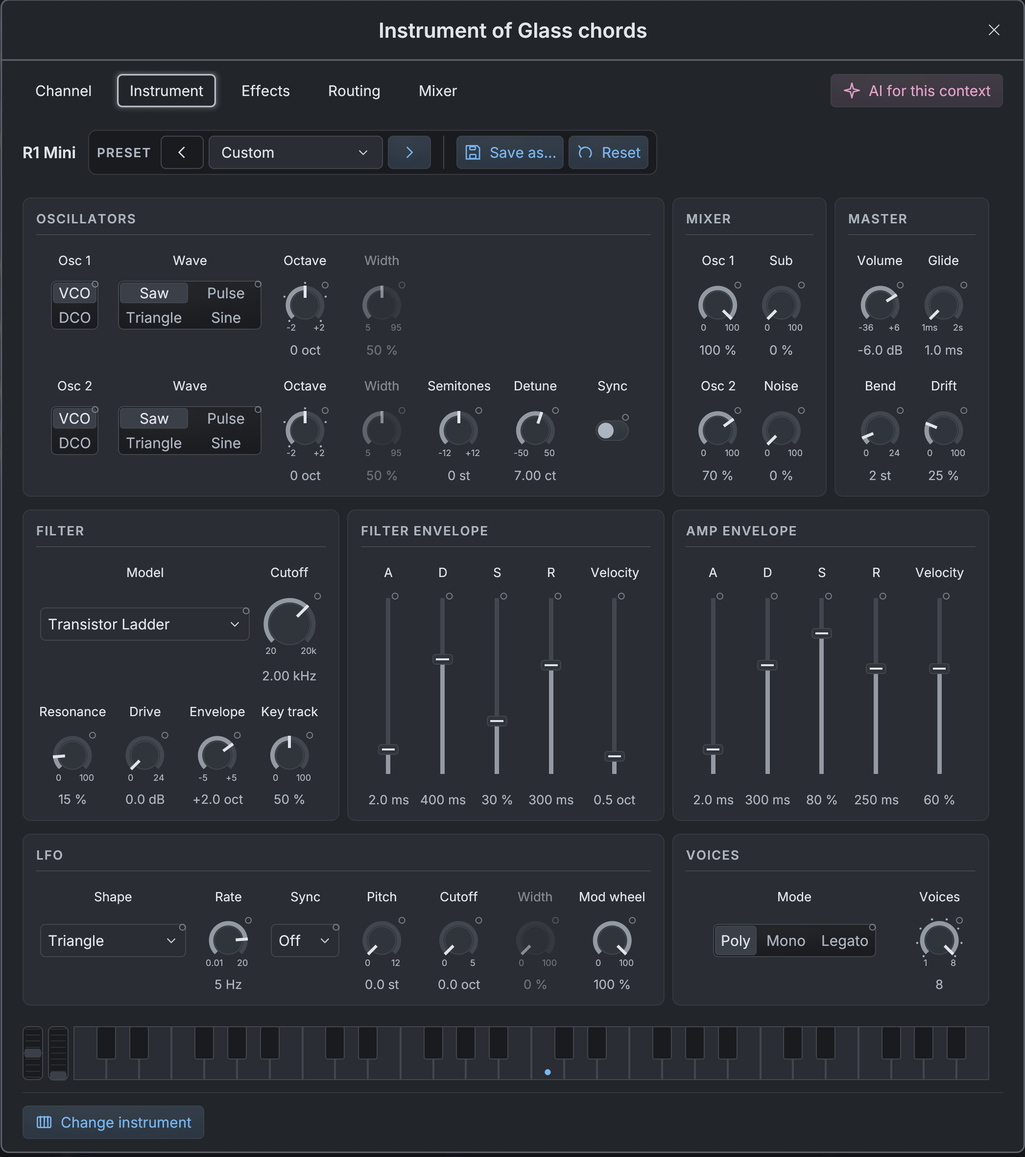
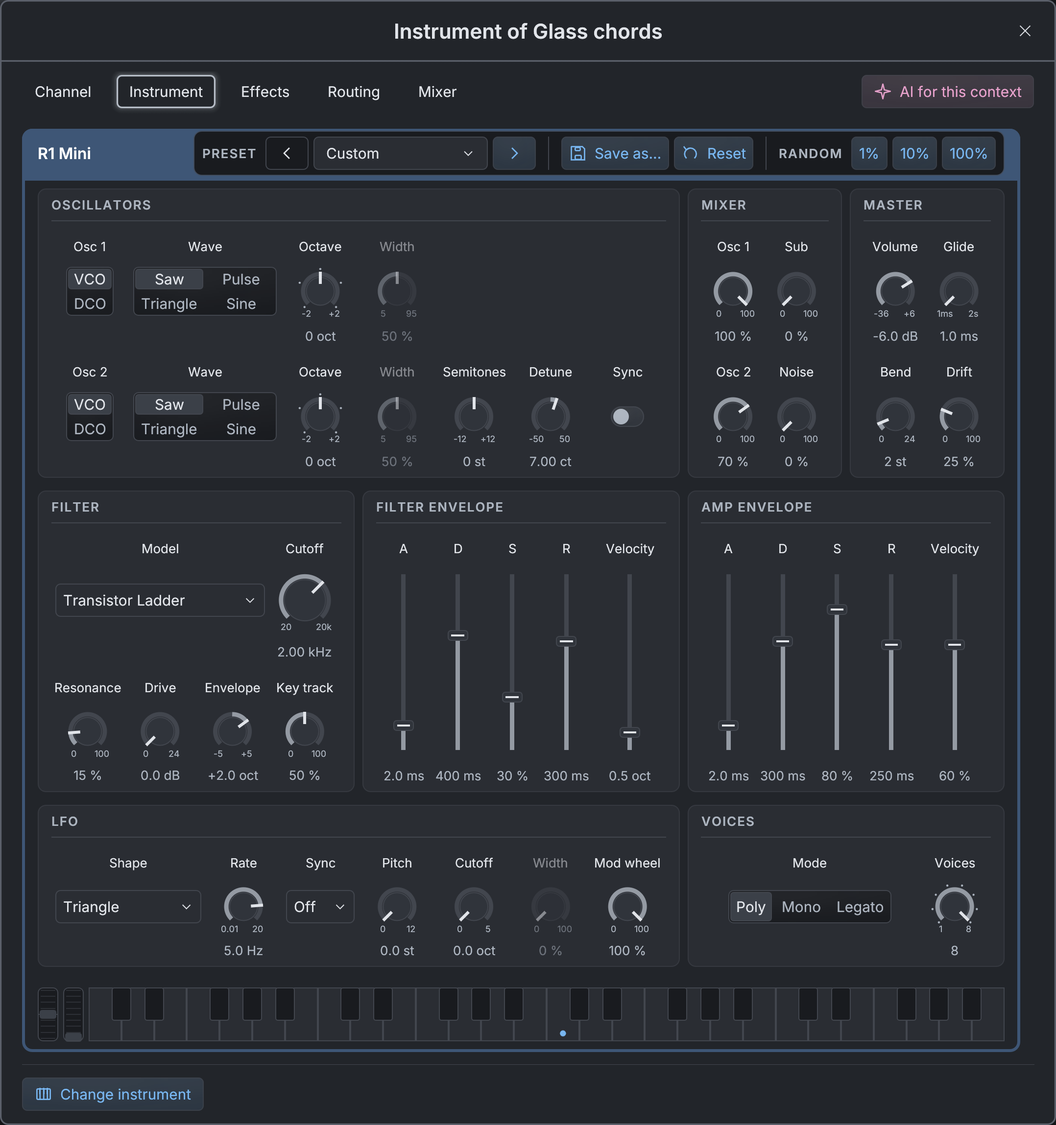
RILL: show all nine built-in R1 devices (#122)
Three instruments (Mini, Sampler, Drums) and six effects (Filter,
Equalizer, Saturator, Compressor, Modulator, Spacer) in the devices
grid, re-captured in the current look, and named in the page copy,
metadata, homepage card and llms.txt.

Claude-Session: https://claude.ai/code/session_01NMJbGrPFJ3cst7Hb3RSgxG

diff --git a/product/rill/index.html b/product/rill/index.html
@@ -5,10 +5,10 @@
   <meta charset="UTF-8">
   <meta name="viewport" content="width=device-width, initial-scale=1.0">
   <title>RILL — Free, Open-Source Music Workstation | Protocodus</title>
-  <meta name="description" content="Record audio and MIDI, play the built-in R1 synth and filter, add VST3, CLAP, LV2 or AU plug-ins and work with an optional AI assistant. A free, open-source DAW for macOS, Windows and Linux.">
+  <meta name="description" content="Record audio and MIDI, play the built-in R1 synth, sampler and drums, mix with six R1 effects, add VST3, CLAP, LV2 or AU plug-ins and work with an optional AI assistant. A free, open-source DAW for macOS, Windows and Linux.">
   <meta name="theme-color" content="#101615">
   <meta property="og:title" content="RILL — Free, Open-Source Music Workstation | Protocodus">
-  <meta property="og:description" content="Record audio and MIDI, play the built-in R1 synth and filter, add VST3, CLAP, LV2 or AU plug-ins and work with an optional AI assistant. A free, open-source DAW for macOS, Windows and Linux.">
+  <meta property="og:description" content="Record audio and MIDI, play the built-in R1 synth, sampler and drums, mix with six R1 effects, add VST3, CLAP, LV2 or AU plug-ins and work with an optional AI assistant. A free, open-source DAW for macOS, Windows and Linux.">
   <meta property="og:type" content="website">
   <meta property="og:site_name" content="Protocodus">
   <meta property="og:locale" content="en_US">
@@ -21,7 +21,7 @@
   <link rel="icon" type="image/svg+xml" href="/assets/images/favicon.svg?v=20260911">
   <link rel="preload" href="/assets/fonts/space-grotesk-latin.woff2" as="font" type="font/woff2" crossorigin>
   <link rel="stylesheet" href="/assets/css/style.css?v=20261105">
-  <link rel="stylesheet" href="/assets/css/rill.css?v=20261111">
+  <link rel="stylesheet" href="/assets/css/rill.css?v=20261112">
   <script type="application/ld+json">
   {
   "@context": "https://schema.org",
@@ -29,7 +29,7 @@
   "name": "RILL",
   "url": "https://protocodus.cz/product/rill/",
   "image": "https://protocodus.cz/product/rill/rill-arrangement.jpg?v=89caee95d86e",
-  "description": "Free, open-source desktop DAW for macOS, Linux and Windows with audio and MIDI recording, a built-in R1 synth and filter, isolated VST3, CLAP, LV2 and AU plug-ins, automation, reversible Freeze and an optional scoped AI assistant.",
+  "description": "Free, open-source desktop DAW for macOS, Linux and Windows with audio and MIDI recording, three built-in R1 instruments and six R1 effects, isolated VST3, CLAP, LV2 and AU plug-ins, automation, reversible Freeze and an optional scoped AI assistant.",
   "applicationCategory": "MultimediaApplication",
   "operatingSystem": "macOS, Linux, Windows",
   "author": {
@@ -52,8 +52,15 @@
     "https://protocodus.cz/product/rill/rill-mixer.webp?v=a8fd0d057807",
     "https://protocodus.cz/product/rill/rill-ai-assistant.webp?v=5394f066e631",
     "https://protocodus.cz/product/rill/rill-automation.webp?v=a4fff37486f8",
-    "https://protocodus.cz/product/rill/rill-r1-mini.webp?v=7cbebe30cc01",
-    "https://protocodus.cz/product/rill/rill-r1-filter.webp?v=ec9fc115a5a0"
+    "https://protocodus.cz/product/rill/rill-r1-mini.webp?v=c79d6d9c9d5e",
+    "https://protocodus.cz/product/rill/rill-r1-sampler.webp?v=4538934f39ea",
+    "https://protocodus.cz/product/rill/rill-r1-drums.webp?v=c1a051936e45",
+    "https://protocodus.cz/product/rill/rill-r1-filter.webp?v=89f049261842",
+    "https://protocodus.cz/product/rill/rill-r1-equalizer.webp?v=c6f311e4b855",
+    "https://protocodus.cz/product/rill/rill-r1-saturator.webp?v=6144440f5849",
+    "https://protocodus.cz/product/rill/rill-r1-compressor.webp?v=80c7955410eb",
+    "https://protocodus.cz/product/rill/rill-r1-modulator.webp?v=5425f60f7769",
+    "https://protocodus.cz/product/rill/rill-r1-spacer.webp?v=cd349b391888"
   ]
 }
   </script>
@@ -62,7 +69,7 @@
 
   <meta name="twitter:card" content="summary_large_image">
   <meta name="twitter:title" content="RILL — Free, Open-Source Music Workstation | Protocodus">
-  <meta name="twitter:description" content="Record audio and MIDI, play the built-in R1 synth and filter, add VST3, CLAP, LV2 or AU plug-ins and work with an optional AI assistant. A free, open-source DAW for macOS, Windows and Linux.">
+  <meta name="twitter:description" content="Record audio and MIDI, play the built-in R1 synth, sampler and drums, mix with six R1 effects, add VST3, CLAP, LV2 or AU plug-ins and work with an optional AI assistant. A free, open-source DAW for macOS, Windows and Linux.">
   <meta name="twitter:image" content="https://protocodus.cz/product/rill/rill-arrangement.jpg?v=89caee95d86e">
   <meta name="twitter:image:alt" content="Rill's arrangement view with a 32-bar song across colour-coded audio and MIDI tracks.">
   <script type="application/ld+json">
@@ -142,14 +149,14 @@
           <div class="rill-identity"><img src="rill-logo.svg" width="670" height="208" alt="RILL"><span class="rill-alpha">ALPHA</span></div>
           <p class="rill-eyebrow">A free, open-source music workstation</p>
           <h1>Record. Arrange. <em>Mix.</em></h1>
-          <p class="rill-intro">Capture a performance, develop the arrangement and shape the mix with the built-in R1 synth and filter or your own VST3, CLAP, LV2 and AU plug-ins. Focused workspaces keep your music in view, with an optional AI assistant when you want one.</p>
+          <p class="rill-intro">Capture a performance, develop the arrangement and shape the mix with the built-in R1 instruments and effects or your own VST3, CLAP, LV2 and AU plug-ins. Focused workspaces keep your music in view, with an optional AI assistant when you want one.</p>
           <div class="hero-actions"><a href="#download" class="btn btn-primary" data-analytics-cta="hero_download" data-analytics-action="view_details">Download RILL <span aria-hidden="true">↓</span></a><a href="#workflow" class="rill-tour-link" data-analytics-cta="hero_tour" data-analytics-action="navigate_section">Explore the workflow <span aria-hidden="true">↗</span></a></div>
           <p class="rill-platform-line">macOS · Windows · Linux <span>MIT licensed</span></p>
         </div>
         <figure class="shot rill-hero-shot"><a class="screenshot-link" href="rill-arrangement.webp?v=7fc9768120b1" data-analytics-cta="arrangement_view" data-analytics-action="view_screenshot" aria-label="View the RILL arrangement at full size"><img src="rill-arrangement.webp?v=7fc9768120b1" width="2000" height="1250" fetchpriority="high" decoding="async" alt="RILL running an original 32-bar project with colour-coded audio and MIDI tracks and two buses"><span class="shot-caption">Arrangement · Audio and MIDI<span>Actual RILL interface · View full size ↗</span></span></a></figure>
       </div>
     </section>
-    <div class="rill-spec-strip"><div class="wrap"><span>Audio + MIDI recording</span><span>Built-in R1 synth + filter</span><span>VST3 · CLAP · LV2 · AU</span><span>Optional scoped AI</span></div></div>
+    <div class="rill-spec-strip"><div class="wrap"><span>Audio + MIDI recording</span><span>3 R1 instruments + 6 effects</span><span>VST3 · CLAP · LV2 · AU</span><span>Optional scoped AI</span></div></div>
     <section class="band rill-workflow" id="workflow">
       <div class="wrap">
         <div class="rill-section-head"><span class="tag">01 / Arrangement</span><h2 class="title">One timeline for<br>audio and MIDI.</h2><p class="lede">Record a performance, import WAV, MP3, FLAC, OGG or MIDI files, or start with the included drum loop. Build your song from audio and MIDI clips on one timeline.</p></div>
@@ -166,14 +173,14 @@
       <div class="wrap rill-editorial"><div class="rill-editorial-copy"><span class="tag">04 / Optional AI assistant</span><h2 class="title">Write and edit<br>with an assistant.</h2><p class="lede">Ask for a new MIDI part, a phrase variation or a mix adjustment. Work across the song, or open AI for a particular clip, channel, instrument or effect. Its edits stay within that context and use the same Undo history as your own.</p><blockquote>“Make these chords more expressive: keep the D-minor harmony, vary the velocities gently, and add a short passing note before each chord change.”</blockquote><p class="rill-ai-note">Unsent example request. Connect your provider to use it; results depend on the model.</p><details class="rill-disclosure"><summary>How the AI connection works</summary><p>Choose OpenAI or Anthropic and connect your own API key. Requests go to your chosen provider; their usage charges may apply. The assistant is optional. External AI clients can connect to the live song through MCP. New MIDI tracks play the built-in R1 Mini synth, or any instrument plug-in you choose.</p><a class="text-link" href="https://github.com/protocodus/rill-daw/blob/main/docs/AI_TOOLS.md" data-analytics-cta="ai_tools" data-analytics-action="view_details">Assistant and MCP setup ↗</a></details></div><figure class="shot"><a class="screenshot-link" href="rill-ai-assistant.webp?v=5394f066e631" data-analytics-cta="ai_assistant" data-analytics-action="view_screenshot" aria-label="View RILL’s AI assistant at full size"><img src="rill-ai-assistant.webp?v=5394f066e631" width="2000" height="1250" loading="lazy" decoding="async" alt="RILL’s contextual assistant with an unsent request to vary the selected D-minor chords"><span class="shot-caption">AI for this clip<span>Draft request, before sending ↗</span></span></a></figure></div>
     </section>
     <section class="band" id="mix"><div class="wrap"><div class="rill-section-head"><span class="tag">05 / Mixer</span><h2 class="title">Route it.<br>Mix it.</h2><p class="lede">Mix through buses and sends, connect auxiliary or sidechain inputs, and bring out separate instrument outputs. Right-click any control and choose Automate, or touch a plug-in parameter in its own editor to create its lane. Each track’s effects open in one click from the arranger. Inspect spectrum, loudness and stereo balance as you work.</p></div><figure class="shot rill-mixer-shot"><a class="screenshot-link" href="rill-mixer.webp?v=a8fd0d057807" data-analytics-cta="mixer" data-analytics-action="view_screenshot" aria-label="View RILL’s mixer at full size"><img src="rill-mixer.webp?v=a8fd0d057807" width="2400" height="1250" loading="lazy" decoding="async" alt="RILL mixer with eight audio and MIDI channels, two buses, a master channel and visible signal routing"><span class="shot-caption">Mixer · Instruments, effects and routing<span>View full size ↗</span></span></a></figure><details class="rill-disclosure"><summary>See the automation editor</summary><p>Shape changes over time with editable points and curves. This volume lane follows the Atmosphere track through the full arrangement.</p><figure class="shot"><a class="screenshot-link" href="rill-automation.webp?v=a4fff37486f8" data-analytics-cta="automation_editor" data-analytics-action="view_screenshot" aria-label="View RILL’s automation editor at full size"><img src="rill-automation.webp?v=a4fff37486f8" width="2000" height="1250" loading="lazy" decoding="async" alt="RILL automation editor showing the Atmosphere volume curve across a 32-bar song"><span class="shot-caption">Automation · Atmosphere volume<span>View full size ↗</span></span></a></figure></details><div class="rill-principles"><article><span>Freeze</span><h3>Print it. Come back later.</h3><p>Freeze clips or tracks into new audio, including configured instrument outputs. Originals stay retained and muted; Return to originals restores them while keeping the prints.</p></article><article><span>Processing</span><h3>Make room for the mix.</h3><p>Independent instrument and effect chains can use multiple CPU cores. Audio keeps the same sample precision; the benefit depends on your song, plug-ins and hardware.</p></article><article><span>Plug-ins</span><h3>Use your favourite plug-ins.</h3><p>VST3 and CLAP everywhere, LV2 on Linux and Audio Units on macOS run in isolated processes. Bring your own plug-ins, keep their editors and presets, and route them through the same mixer.</p></article></div></div></section>
-    <section class="band band-well" id="devices"><div class="wrap"><div class="rill-section-head"><span class="tag">06 / Built-in devices</span><h2 class="title">Sound before<br>any plug-in.</h2><p class="lede">RILL ships its own R1 instrument and effect, so a new song makes sound straight away. Find them in the Device browser under Built-in (R1). Each has factory presets, automation on every control, and tools the AI assistant can use in plain units.</p></div><div class="rill-device-grid"><figure class="shot"><a class="screenshot-link" href="rill-r1-mini.webp?v=7cbebe30cc01" data-analytics-cta="r1_mini" data-analytics-action="view_screenshot" aria-label="View the R1 Mini panel at full size"><img src="rill-r1-mini.webp?v=7cbebe30cc01" width="2093" height="2362" loading="lazy" decoding="async" alt="R1 Mini synth panel with oscillators, mixer, filter, two envelopes, LFO, voicing and a playable keyboard"><span class="shot-caption">R1 Mini · Instrument<span>View full size ↗</span></span></a><figcaption>A two-oscillator subtractive synth and the default instrument of new MIDI tracks: circuit-modelled VCO and DCO oscillators, sub and noise, five analog filter circuits, two envelopes, an LFO, and poly, mono and legato voicing.</figcaption></figure><figure class="shot"><a class="screenshot-link" href="rill-r1-filter.webp?v=ec9fc115a5a0" data-analytics-cta="r1_filter" data-analytics-action="view_screenshot" aria-label="View the R1 Filter panel at full size"><img src="rill-r1-filter.webp?v=ec9fc115a5a0" width="2093" height="1674" loading="lazy" decoding="async" alt="R1 Filter panel with a response graph, filter model, type, slope, cutoff, LFO, envelope follower and output controls"><span class="shot-caption">R1 Filter · Effect<span>View full size ↗</span></span></a><figcaption>A filter for inserts and sends: the transparent Clean model or one of eight characters, from transistor ladder and Sallen-Key to comb and vowel, moved by its own LFO and envelope follower.</figcaption></figure></div></div></section>
+    <section class="band band-well" id="devices"><div class="wrap"><div class="rill-section-head"><span class="tag">06 / Built-in devices</span><h2 class="title">Sound before<br>any plug-in.</h2><p class="lede">RILL ships three R1 instruments and six R1 effects, so a new song makes sound straight away. Find them in the Device browser under Built-in (R1). Each has factory presets, a Random button that varies every control by 1, 10 or 100 %, automation on every control, and tools the AI assistant can use in plain units.</p></div><div class="rill-device-grid"><figure class="shot"><a class="screenshot-link" href="rill-r1-mini.webp?v=c79d6d9c9d5e" data-analytics-cta="r1_mini" data-analytics-action="view_screenshot" aria-label="View the R1 Mini panel at full size"><img src="rill-r1-mini.webp?v=c79d6d9c9d5e" width="2156" height="2298" loading="lazy" decoding="async" alt="R1 Mini synth panel with oscillators, mixer, filter, two envelopes, LFO, voicing and a playable keyboard"><span class="shot-caption">R1 Mini · Instrument<span>View full size ↗</span></span></a><figcaption>A two-oscillator subtractive synth and the default instrument of new MIDI tracks: circuit-modelled VCO and DCO oscillators, sub and noise, five analog filter circuits, two envelopes, an LFO, and poly, mono and legato voicing.</figcaption></figure><figure class="shot"><a class="screenshot-link" href="rill-r1-sampler.webp?v=4538934f39ea" data-analytics-cta="r1_sampler" data-analytics-action="view_screenshot" aria-label="View the R1 Sampler panel at full size"><img src="rill-r1-sampler.webp?v=4538934f39ea" width="2156" height="2666" loading="lazy" decoding="async" alt="R1 Sampler panel with a piano sample waveform, loop, pitch, filter, two envelopes, LFO and voice controls"><span class="shot-caption">R1 Sampler · Instrument<span>View full size ↗</span></span></a><figcaption>Plays one recording across the keyboard. Drop in a WAV, MP3, FLAC or OGG file or turn an audio clip into an instrument, drag start, end and loop markers on the waveform, and shape it with a filter, two envelopes and an LFO.</figcaption></figure><figure class="shot"><a class="screenshot-link" href="rill-r1-drums.webp?v=c1a051936e45" data-analytics-cta="r1_drums" data-analytics-action="view_screenshot" aria-label="View the R1 Drums panel at full size"><img src="rill-r1-drums.webp?v=c1a051936e45" width="2156" height="1856" loading="lazy" decoding="async" alt="R1 Drums panel with a grid of sixteen pads, the selected kick drum waveform and its playback, pitch, envelope and filter controls"><span class="shot-caption">R1 Drums · Instrument<span>View full size ↗</span></span></a><figcaption>Sixteen pads, one recording each. Every pad has its own start and end, pitch envelope, attack, hold and decay, filter, drive, pan and one of four choke groups, so an open hi-hat is cut by the closed one.</figcaption></figure><figure class="shot"><a class="screenshot-link" href="rill-r1-filter.webp?v=89f049261842" data-analytics-cta="r1_filter" data-analytics-action="view_screenshot" aria-label="View the R1 Filter panel at full size"><img src="rill-r1-filter.webp?v=89f049261842" width="2156" height="1630" loading="lazy" decoding="async" alt="R1 Filter panel with a response graph, filter model, type, slope, cutoff, LFO, envelope follower and output controls"><span class="shot-caption">R1 Filter · Effect<span>View full size ↗</span></span></a><figcaption>A filter for inserts and sends: the transparent Clean model or one of eight characters, from transistor ladder and Sallen-Key to comb and vowel, moved by its own LFO and envelope follower.</figcaption></figure><figure class="shot"><a class="screenshot-link" href="rill-r1-equalizer.webp?v=c6f311e4b855" data-analytics-cta="r1_equalizer" data-analytics-action="view_screenshot" aria-label="View the R1 Equalizer panel at full size"><img src="rill-r1-equalizer.webp?v=c6f311e4b855" width="2156" height="1530" loading="lazy" decoding="async" alt="R1 Equalizer panel with a frequency response plot, six bands and Digital or Analog mode"><span class="shot-caption">R1 Equalizer · Effect<span>View full size ↗</span></span></a><figcaption>Six bands from high-pass to low-pass with slopes up to 48 dB per octave. Drag the bands over a live spectrum; Digital is exact and neutral, Analog adds proportional-Q bells and passive-style shelves.</figcaption></figure><figure class="shot"><a class="screenshot-link" href="rill-r1-saturator.webp?v=6144440f5849" data-analytics-cta="r1_saturator" data-analytics-action="view_screenshot" aria-label="View the R1 Saturator panel at full size"><img src="rill-r1-saturator.webp?v=6144440f5849" width="2156" height="1420" loading="lazy" decoding="async" alt="R1 Saturator panel with a transfer curve, harmonics display and Transistor, Tube and Tape styles"><span class="shot-caption">R1 Saturator · Effect<span>View full size ↗</span></span></a><figcaption>Harmonic colour in three styles: Transistor, Tube with adjustable bias, and Tape with its own compression. Focus keeps bass clean, Auto gain holds the loudness, and oversampling keeps aliasing out.</figcaption></figure><figure class="shot"><a class="screenshot-link" href="rill-r1-compressor.webp?v=80c7955410eb" data-analytics-cta="r1_compressor" data-analytics-action="view_screenshot" aria-label="View the R1 Compressor panel at full size"><img src="rill-r1-compressor.webp?v=80c7955410eb" width="2156" height="1594" loading="lazy" decoding="async" alt="R1 Compressor panel with a gain curve, level history, gain reduction meter and detector characters"><span class="shot-caption">R1 Compressor · Effect<span>View full size ↗</span></span></a><figcaption>Compressor, limiter and expander or gate in one, with Digital, Tube, Opto and FET characters. Drag the threshold on the curve or the level history, and duck one track under another with an external sidechain.</figcaption></figure><figure class="shot"><a class="screenshot-link" href="rill-r1-modulator.webp?v=5425f60f7769" data-analytics-cta="r1_modulator" data-analytics-action="view_screenshot" aria-label="View the R1 Modulator panel at full size"><img src="rill-r1-modulator.webp?v=5425f60f7769" width="2156" height="1590" loading="lazy" decoding="async" alt="R1 Modulator panel with the LFO shape beside the comb filter it sweeps and chorus, flanger and phaser modes"><span class="shot-caption">R1 Modulator · Effect<span>View full size ↗</span></span></a><figcaption>Chorus, flanger and phaser with one set of controls and a Clean or Analog character. The panel shows the LFO beside the comb or notches it sweeps; tempo sync runs from eight bars to a sixteenth.</figcaption></figure><figure class="shot"><a class="screenshot-link" href="rill-r1-spacer.webp?v=cd349b391888" data-analytics-cta="r1_spacer" data-analytics-action="view_screenshot" aria-label="View the R1 Spacer panel at full size"><img src="rill-r1-spacer.webp?v=cd349b391888" width="2156" height="1512" loading="lazy" decoding="async" alt="R1 Spacer panel with a picture of echo repeats and reverb tail, echo and reverb sections and routing controls"><span class="shot-caption">R1 Spacer · Effect<span>View full size ↗</span></span></a><figcaption>Echo and reverb in one device, in series or in parallel. Digital, bucket-brigade or tape echo, and a Studio, Room or Hall reverb whose decay is exactly what the knob says. Drag time, feedback and decay in the picture.</figcaption></figure></div></div></section>
     <section class="band rill-download" id="download"><div class="wrap"><div class="rill-download-head"><div><h2 class="title">Download RILL.</h2></div><div><span class="rill-alpha">ALPHA · 0.1.0</span><p class="lede">Free alpha builds for macOS, Windows and Linux. Each link serves the latest successful build.</p><p class="availability-note">Alpha software. Builds are unsigned; macOS builds are not notarized. Keep backups of important projects.</p></div></div>
       <div class="rill-download-grid">
         <article class="rill-platform"><span class="rill-os-icon" aria-hidden="true">⌘</span><h3>macOS</h3><p>macOS 11 or newer.</p><a class="btn btn-primary" href="https://nightly.link/protocodus/rill-daw/workflows/ci/main/rill-aarch64-apple-darwin.zip" data-analytics-cta="download_macos_arm64" data-analytics-action="download_native">Apple silicon <span aria-hidden="true">↓</span></a><a class="rill-alt-download" href="https://nightly.link/protocodus/rill-daw/workflows/ci/main/rill-x86_64-apple-darwin.zip" data-analytics-cta="download_macos_x64" data-analytics-action="download_native">Download for Intel ↓</a><small>Move Rill.app to Applications.</small></article>
         <article class="rill-platform"><span class="rill-os-icon" aria-hidden="true">⊞</span><h3>Windows</h3><p>Windows 10 or 11 · x86-64.</p><a class="btn btn-primary" href="https://nightly.link/protocodus/rill-daw/workflows/ci/main/rill-x86_64-pc-windows-msvc.zip" data-analytics-cta="download_windows_x64" data-analytics-action="download_native">Download for Windows <span aria-hidden="true">↓</span></a><small>Extract the complete package and run rill.exe.</small></article>
         <article class="rill-platform"><span class="rill-os-icon" aria-hidden="true">&gt;_</span><h3>Linux</h3><p>glibc 2.35 or newer.</p><a class="btn btn-primary" href="https://nightly.link/protocodus/rill-daw/workflows/ci/main/rill-x86_64-unknown-linux-gnu.zip" data-analytics-cta="download_linux_x64" data-analytics-action="download_native">Download for x86-64 <span aria-hidden="true">↓</span></a><a class="rill-alt-download" href="https://nightly.link/protocodus/rill-daw/workflows/ci/main/rill-aarch64-unknown-linux-gnu.zip" data-analytics-cta="download_linux_arm64" data-analytics-action="download_native">Download for arm64 ↓</a><small>Extract the complete package and run ./rill.</small></article>
       </div>
-      <div class="rill-install"><details class="rill-disclosure"><summary>Installation and plug-in requirements</summary><p>Extract the downloaded ZIP, then the platform archive inside. Keep the application and its daw-plugin-host helper together; keep the macOS app bundle intact. Each package includes a SHA-256 checksum and installation notes. R1 Mini and R1 Filter are built in; install other instruments and effects separately, matching the application’s architecture.</p><a class="text-link" href="https://github.com/protocodus/rill-daw/blob/main/docs/RELEASING.md" data-analytics-cta="install_notes" data-analytics-action="view_details">Full platform requirements ↗</a></details><details class="rill-disclosure"><summary>Which build am I downloading?</summary><p>These are rolling alpha builds from the main branch, not a stable release. A newer build can be in progress while the links serve an earlier successful build. Artifacts expire after 14 days.</p><a class="text-link" href="https://github.com/protocodus/rill-daw/actions/workflows/ci.yml?query=branch%3Amain+is%3Asuccess" data-analytics-cta="main_builds" data-analytics-action="view_versions">View successful builds on GitHub ↗</a></details></div>
+      <div class="rill-install"><details class="rill-disclosure"><summary>Installation and plug-in requirements</summary><p>Extract the downloaded ZIP, then the platform archive inside. Keep the application and its daw-plugin-host helper together; keep the macOS app bundle intact. Each package includes a SHA-256 checksum and installation notes. The nine R1 instruments and effects are built in; install other instruments and effects separately, matching the application’s architecture.</p><a class="text-link" href="https://github.com/protocodus/rill-daw/blob/main/docs/RELEASING.md" data-analytics-cta="install_notes" data-analytics-action="view_details">Full platform requirements ↗</a></details><details class="rill-disclosure"><summary>Which build am I downloading?</summary><p>These are rolling alpha builds from the main branch, not a stable release. A newer build can be in progress while the links serve an earlier successful build. Artifacts expire after 14 days.</p><a class="text-link" href="https://github.com/protocodus/rill-daw/actions/workflows/ci.yml?query=branch%3Amain+is%3Asuccess" data-analytics-cta="main_builds" data-analytics-action="view_versions">View successful builds on GitHub ↗</a></details></div>
       <div class="rill-resource-row"><a href="https://github.com/protocodus/rill-daw/blob/main/docs/USER_GUIDE.md" data-analytics-cta="user_guide" data-analytics-action="view_details">Read the user guide ↗</a><a href="https://github.com/protocodus/rill-daw" data-analytics-cta="download_source" data-analytics-action="view_source">Source code ↗</a><a href="https://github.com/protocodus/rill-daw/issues" data-analytics-cta="issues" data-analytics-action="contact_support">Report an issue ↗</a></div>
     </div></section>
     <section class="band rill-support" id="support"><div class="wrap"><span class="tag">Get involved</span><h2 class="title">Feedback &amp; support.</h2><p class="lede">Found a bug or missing a feature? Send us the details or open an issue on GitHub.</p><a href="mailto:protocodus@proton.me?subject=Rill" class="text-link" data-analytics-cta="support_email" data-analytics-action="contact_support">Get in touch ↗</a></div></section>

diff --git a/index.html b/index.html
@@ -162,7 +162,7 @@
             <div class="product-body">
               <div class="product-tags"><span>Desktop app</span><span class="product-type">Music workstation · Alpha</span></div>
               <h3><a href="/product/rill/" data-analytics-cta="product_rill_title" data-analytics-action="select_product">RILL</a></h3><p class="spotlight-deck">Record. Arrange. Mix.</p>
-              <p>Record audio and MIDI, play the built-in R1 synth and filter, shape the mix with isolated VST3, CLAP, LV2 and AU plug-ins, and automate your sound. Reversible Freeze, portable projects and optional scoped AI keep the workflow flexible.</p>
+              <p>Record audio and MIDI, play the built-in R1 synth, sampler and drums, shape the mix with six R1 effects or isolated VST3, CLAP, LV2 and AU plug-ins, and automate your sound. Reversible Freeze, portable projects and optional scoped AI keep the workflow flexible.</p>
               <p class="product-facts">macOS · Windows · Linux<br>Free and open source · Alpha</p>
               <div class="product-actions"><a class="btn btn-primary" href="/product/rill/" data-analytics-cta="product_rill_details" data-analytics-action="select_product">Discover RILL <span aria-hidden="true">→</span></a><a class="product-more" href="/product/rill/#download" data-analytics-cta="product_rill_download" data-analytics-action="select_product">Download <span aria-hidden="true">↓</span></a></div>
             </div>

diff --git a/assets/css/rill.css b/assets/css/rill.css
@@ -51,7 +51,7 @@
 .rill-disclosure .text-link { font-size: .8rem; }
 .rill-ai .rill-disclosure { margin-top: 1.2rem; }
 .rill-mixer-shot { margin-top: 3rem; }
-.rill-device-grid { display: grid; grid-template-columns: 1fr 1fr; gap: 2.5rem; align-items: start; margin-top: 4rem; }
+.rill-device-grid { display: grid; grid-template-columns: repeat(3, 1fr); gap: 2.5rem 2rem; align-items: start; margin-top: 4rem; }
 .rill-device-grid figcaption { margin-top: 1rem; color: var(--fg-muted); font-size: .9rem; line-height: 1.6; max-width: 60ch; }
 .rill-download { background: #18241d; }
 .rill-download-head { display: grid; grid-template-columns: 1.15fr 1fr; gap: 3rem; align-items: center; }
@@ -75,6 +75,7 @@
   .rill-editorial-reverse .rill-editorial-copy { order: 0; }
   .rill-section-head { gap: 0 2rem; }
   .rill-download-grid { gap: .6rem; }
+  .rill-device-grid { grid-template-columns: 1fr 1fr; }
 }
 @media (max-width: 650px) {
   .rill-subnav nav { gap: 1rem; }
